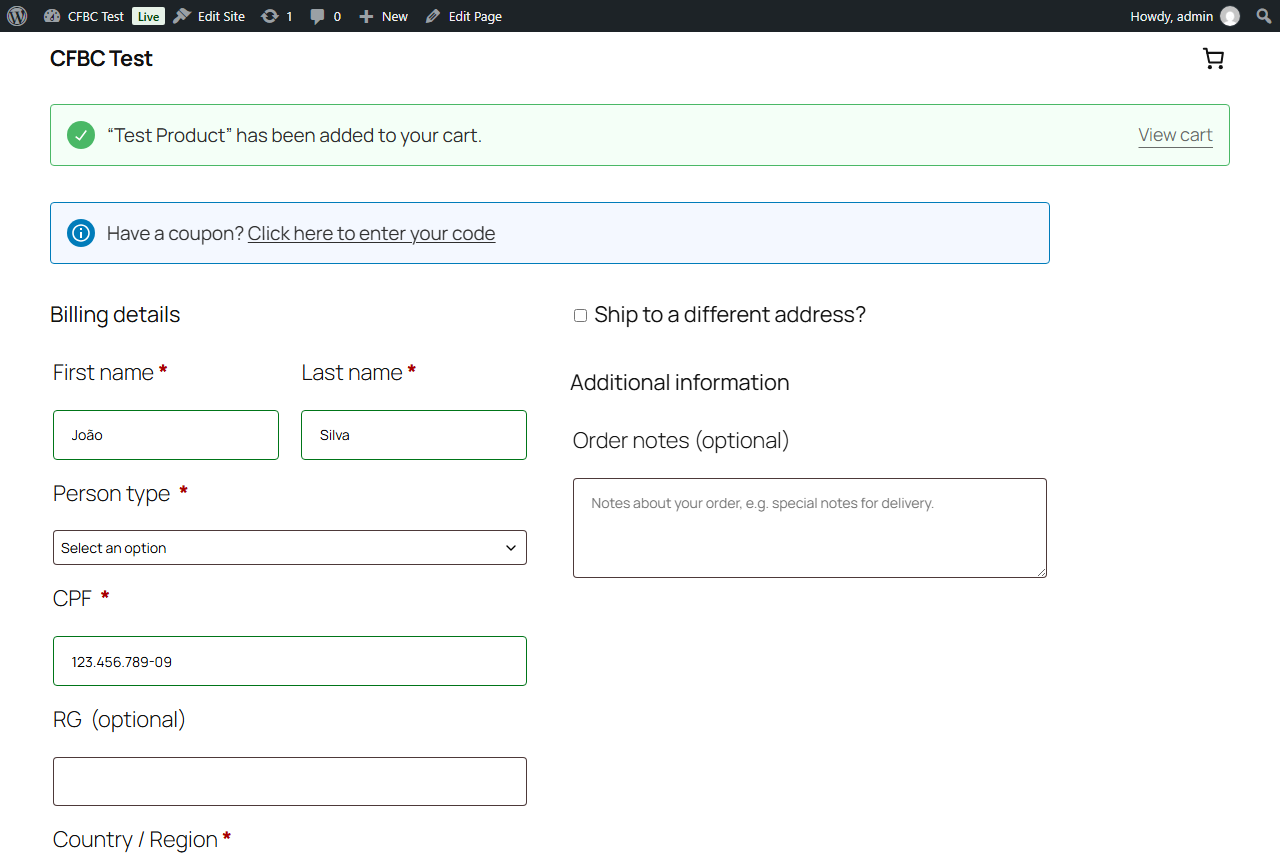
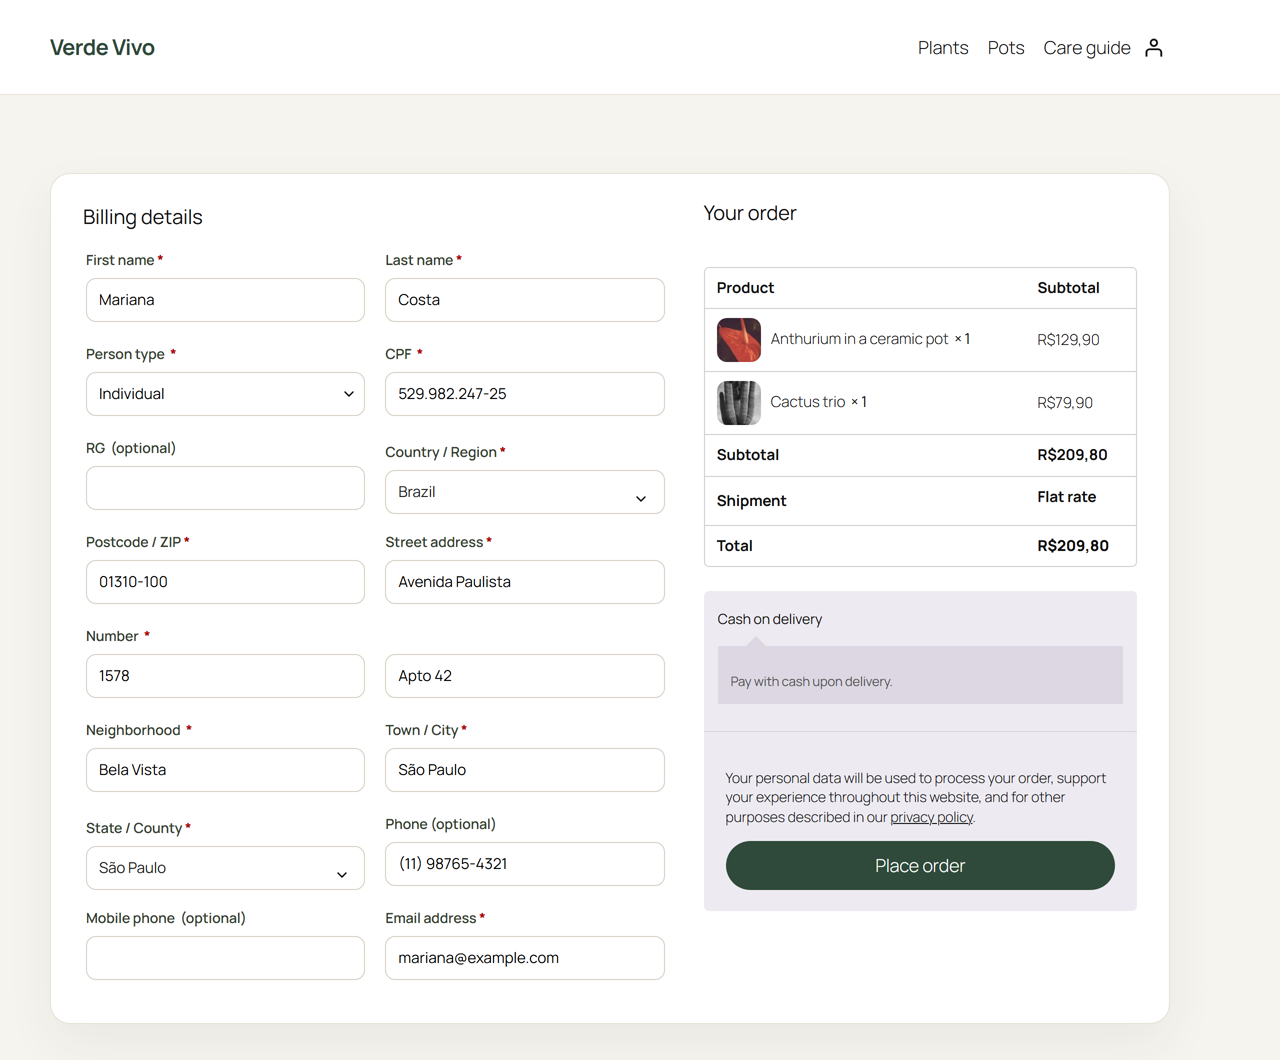
Plugin pages: new screenshots on designed demo sites (Wildmeadow, Verde Vivo), WebP; Confirm & Masks now live on WordPress.org

diff --git a/confirm-masks-cf7/index.html b/confirm-masks-cf7/index.html
@@ -28,14 +28,13 @@
         <h1>"Check your message before sending", for Contact Form 7.</h1>
         <p class="lead">HeroBytes Confirm &amp; Masks adds the three things people keep asking Contact Form 7 for: a confirmation screen with a summary of everything typed, input masks for phones, documents, dates and money, and simple multi-step forms. No jQuery, no tracking.</p>
         <div class="actions">
-          <a class="btn primary" href="https://wordpress.org/plugins/search/herobytes/" rel="noopener">Find it on WordPress.org</a>
+          <a class="btn primary" href="https://wordpress.org/plugins/herobytes-confirm-masks-for-contact-form-7/" rel="noopener">Install from WordPress.org</a>
           <a class="btn secondary" href="#confirm">See how it works</a>
         </div>
-        <p class="note">Submitted to the WordPress.org plugin directory on 27 October 2026 and waiting for review. Until it is listed, write to <a href="mailto:sebas152000@gmail.com">sebas152000@gmail.com</a> and you will get the zip.</p>
       </div>
       <div class="frame">
         <div class="bar"><i></i><i></i><i></i><span class="url">Contact Form 7 &middot; confirmation screen in place of the form</span></div>
-        <img class="zoomable" src="../assets/confirm-masks-cf7/screenshot-1.png" alt="A Contact Form 7 form replaced by a summary of the typed values with Back and Send buttons" width="1280" height="800">
+        <img class="zoomable" src="../assets/confirm-masks-cf7/screenshot-1.webp" alt="A Contact Form 7 form replaced by a summary of the typed values with Back and Send buttons" width="1280" height="800">
       </div>
     </div>
   </div>
@@ -49,7 +48,7 @@
     </ol>
     <p>To turn it on for every form at once, use <b>Contact &gt; Confirm &amp; Masks</b>. If you prefer the form's <i>Additional Settings</i> box, one line does it: <code>confirm_screen: on</code>.</p>
     <figure>
-      <div class="frame"><div class="bar"><i></i><i></i><i></i><span class="url">Pop-up variant</span></div><img class="zoomable" src="../assets/confirm-masks-cf7/screenshot-2.png" alt="The confirmation screen shown as a pop-up over the page" width="1280" height="800" loading="lazy"></div>
+      <div class="frame"><div class="bar"><i></i><i></i><i></i><span class="url">Pop-up variant</span></div><img class="zoomable" src="../assets/confirm-masks-cf7/screenshot-2.webp" alt="The confirmation screen shown as a pop-up over the page" width="1280" height="800" loading="lazy"></div>
       <figcaption>Labels come from your form's <code>&lt;label&gt;</code> elements. Files, checkboxes, radio buttons, selects and acceptance boxes are summarised properly. Fields hidden by conditional-fields plugins are left out.</figcaption>
     </figure>
     <p><b>Coming from "Contact Form 7 add confirm"?</b> Templates built for that old plugin keep working: the <code>[confirm]</code> button opens the confirmation screen and <code>[back]</code> is ignored.</p>
@@ -67,7 +66,7 @@
     <p><b>Presets:</b> <code>phone</code>, <code>digits</code>, <code>money</code>, <code>phone-us</code>, <code>phone-br</code>, <code>phone-co</code>, <code>phone-mx</code>, <code>phone-ar</code>, <code>phone-cl</code>, <code>phone-es</code>, <code>phone-pt</code>, <code>phone-uk</code>, <code>phone-de</code>, <code>phone-fr</code>, <code>phone-it</code>, <code>phone-jp</code>, <code>date</code>, <code>date-us</code>, <code>date-iso</code>, <code>time</code>, <code>year</code>, <code>cpf</code>, <code>cnpj</code>, <code>cpf-cnpj</code>, <code>cep</code>, <code>nit</code>, <code>rut</code>, <code>dni</code>, <code>nie</code>, <code>curp</code>, <code>rfc</code>, <code>zip</code>, <code>zip-us</code>, <code>postcode</code>.</p>
     <p><b>Your own pattern:</b> <code>0</code> digit, <code>9</code> optional digit, <code>A</code> letter, <code>S</code> letter or digit, <code>#</code> any character; anything else is printed literally. Contact Form 7 does not allow spaces or brackets inside tag options, so for those write a bare <code>mask</code> and put the pattern in the placeholder, or define a named mask under <b>Contact &gt; Confirm &amp; Masks</b>. Dates and times are also checked to be real (no 31/02).</p>
     <figure>
-      <div class="frame"><div class="bar"><i></i><i></i><i></i><span class="url">Masks while typing</span></div><img class="zoomable" src="../assets/confirm-masks-cf7/screenshot-3.png" alt="Phone, document, date and money fields formatting themselves while typing" width="1280" height="800" loading="lazy"></div>
+      <div class="frame"><div class="bar"><i></i><i></i><i></i><span class="url">Masks while typing</span></div><img class="zoomable" src="../assets/confirm-masks-cf7/screenshot-3.webp" alt="Phone, date and money fields formatting themselves while typing" width="1280" height="800" loading="lazy"></div>
     </figure>
     <p><b>Coming from "Contact Form 7 - Phone mask field"?</b> Its <code>[mask* name "(___) ___-____" "Placeholder"]</code> tag keeps working.</p>
   </div></section>
@@ -82,7 +81,7 @@
 [submit "Send"]</code></pre>
     <p>A progress list shows the steps. <b>Next</b> validates the current step with Contact Form 7's own rules. If the server rejects a field, the form jumps back to its step. The confirmation screen, if enabled, comes after the last step.</p>
     <figure>
-      <div class="frame"><div class="bar"><i></i><i></i><i></i><span class="url">Multi-step form with progress list</span></div><img class="zoomable" src="../assets/confirm-masks-cf7/screenshot-4.png" alt="A multi-step Contact Form 7 form with its progress list" width="1280" height="800" loading="lazy"></div>
+      <div class="frame"><div class="bar"><i></i><i></i><i></i><span class="url">Multi-step form with progress list</span></div><img class="zoomable" src="../assets/confirm-masks-cf7/screenshot-4.webp" alt="A multi-step Contact Form 7 form with its progress list" width="1280" height="800" loading="lazy"></div>
     </figure>
   </div></section>
 

diff --git a/checkout-fields-brazil-colombia/index.html b/checkout-fields-brazil-colombia/index.html
@@ -35,7 +35,7 @@
       </div>
       <div class="frame">
         <div class="bar"><i></i><i></i><i></i><span class="url">Classic checkout &middot; Brazil</span></div>
-        <img class="zoomable" src="../assets/checkout-fields-brazil-colombia/screenshot-1.png" alt="Brazilian billing form in the classic WooCommerce checkout: person type, CPF, CEP first, number and neighborhood" width="1280" height="860">
+        <img class="zoomable" src="../assets/checkout-fields-brazil-colombia/screenshot-1.webp" alt="Brazilian billing form in the classic WooCommerce checkout: person type, CPF, CEP first, number and neighborhood" width="1280" height="1060">
       </div>
     </div>
   </div>
@@ -53,7 +53,7 @@
       <li>Addresses are printed the Brazilian way: <i>Rua Exemplo, 123 / Bairro / Cidade-UF / CEP</i>.</li>
     </ul>
     <figure>
-      <div class="frame"><div class="bar"><i></i><i></i><i></i><span class="url">Checkout block &middot; legal entity</span></div><img class="zoomable" src="../assets/checkout-fields-brazil-colombia/screenshot-2.png" alt="The same Brazilian fields in the WooCommerce Checkout block, for a legal entity" width="1280" height="860" loading="lazy"></div>
+      <div class="frame"><div class="bar"><i></i><i></i><i></i><span class="url">Checkout block &middot; legal entity</span></div><img class="zoomable" src="../assets/checkout-fields-brazil-colombia/screenshot-2.webp" alt="The same Brazilian fields in the WooCommerce Checkout block, for a legal entity" width="1280" height="1060" loading="lazy"></div>
       <figcaption>The Checkout block (WooCommerce Blocks) is supported through the official additional checkout fields API. Older plugins of this kind only support the classic checkout.</figcaption>
     </figure>
   </div></section>
@@ -66,7 +66,7 @@
       <li><b>Company name</b> is required when the document is a NIT. Postcode optional, as it is rarely used in Colombia.</li>
     </ul>
     <figure>
-      <div class="frame"><div class="bar"><i></i><i></i><i></i><span class="url">Colombia &middot; document type, department and city</span></div><img class="zoomable" src="../assets/checkout-fields-brazil-colombia/screenshot-3.png" alt="Colombian form: document type, department and city list" width="1280" height="860" loading="lazy"></div>
+      <div class="frame"><div class="bar"><i></i><i></i><i></i><span class="url">Colombia &middot; document type, department and city</span></div><img class="zoomable" src="../assets/checkout-fields-brazil-colombia/screenshot-3.webp" alt="Colombian form: document type, department and city list" width="1280" height="1060" loading="lazy"></div>
     </figure>
   </div></section>
 
@@ -75,7 +75,7 @@
     <p>Payment gateways, invoicing (NF-e) and shipping plugins for Brazil read the order meta keys made popular by <i>WooCommerce Extra Checkout Fields for Brazil</i> (Brazilian Market on WooCommerce): <code>_billing_persontype</code>, <code>_billing_cpf</code>, <code>_billing_rg</code>, <code>_billing_cnpj</code>, <code>_billing_ie</code>, <code>_billing_cellphone</code>, <code>_billing_number</code>, <code>_billing_neighborhood</code>, <code>_shipping_number</code>, <code>_shipping_neighborhood</code>. This plugin stores its data under those same keys, on orders and on customer profiles, so you can switch without losing data or breaking integrations. Colombian fields use <code>_billing_document_type</code>, <code>_billing_document</code>, <code>_billing_divipola</code> and <code>_shipping_divipola</code>.</p>
     <p>The fields also appear in My Account, in the admin order screen (editable), on the order received page and in every order e-mail. High-Performance Order Storage (HPOS) compatible.</p>
     <figure>
-      <div class="frame"><div class="bar"><i></i><i></i><i></i><span class="url">Admin order screen</span></div><img class="zoomable" src="../assets/checkout-fields-brazil-colombia/screenshot-4.png" alt="Admin order screen with the fields, editable" width="1280" height="860" loading="lazy"></div>
+      <div class="frame"><div class="bar"><i></i><i></i><i></i><span class="url">Admin order screen</span></div><img class="zoomable" src="../assets/checkout-fields-brazil-colombia/screenshot-4.webp" alt="Admin order screen with the fields, editable" width="1280" height="800" loading="lazy"></div>
     </figure>
   </div></section>
 

diff --git a/hide-title-meta/index.html b/hide-title-meta/index.html
@@ -39,7 +39,7 @@
       </div>
       <div class="frame">
         <div class="bar"><i></i><i></i><i></i><span class="url">Block editor &middot; Hide Title &amp; Meta panel</span></div>
-        <img class="zoomable" src="../assets/hide-title-meta/screenshot-1.png" alt="The Hide Title &amp; Meta panel in the WordPress block editor sidebar, with one checkbox per element" width="1280" height="800">
+        <img class="zoomable" src="../assets/hide-title-meta/screenshot-1.webp" alt="The Hide Title &amp; Meta panel in the WordPress block editor sidebar, with one checkbox per element" width="1280" height="800">
       </div>
     </div>
   </div>
@@ -53,7 +53,7 @@
       <li>Click <b>Update</b> and open the page. The title is gone from the page header; it is still there in menus, in the browser tab and for search engines.</li>
     </ol>
     <figure>
-      <div class="frame"><div class="bar"><i></i><i></i><i></i><span class="url">Twenty Twenty-Five (block theme) &middot; title and featured image hidden</span></div><img class="zoomable" src="../assets/hide-title-meta/screenshot-2.png" alt="A page on a block theme with its title and featured image hidden; the navigation menu still shows the page name" width="1280" height="800" loading="lazy"></div>
+      <div class="frame"><div class="bar"><i></i><i></i><i></i><span class="url">Before and after Twenty Twenty-Five (block theme) &middot; title and featured image hiddenmiddot; Twenty Twenty-Five (block theme)</span></div><img class="zoomable" src="../assets/hide-title-meta/screenshot-2.webp" alt="The same page before and after: the theme title and featured image above the header are gone, the menu still shows the page" width="1280" height="800" loading="lazy"></div>
       <figcaption>The page header no longer shows the title. The menu at the top still says "Landing Page", because menus are never affected.</figcaption>
     </figure>
     <h3>Hide the date, author or comments on a post</h3>
@@ -61,7 +61,7 @@
     <h3>Hide the title on every page by default</h3>
     <p>Go to <b>Settings &gt; Hide Title &amp; Meta</b>, choose which post types get the panel and which elements are hidden by default on each. For example: hide the title on all pages, show it on all posts. Any individual page can still override the default.</p>
     <figure>
-      <div class="frame"><div class="bar"><i></i><i></i><i></i><span class="url">Settings &gt; Hide Title &amp; Meta</span></div><img class="zoomable" src="../assets/hide-title-meta/screenshot-3.png" alt="Settings page: post types, defaults per post type and the CSS fallback" width="1280" height="800" loading="lazy"></div>
+      <div class="frame"><div class="bar"><i></i><i></i><i></i><span class="url">Settings &gt; Hide Title &amp; Meta</span></div><img class="zoomable" src="../assets/hide-title-meta/screenshot-3.webp" alt="Settings page: post types, defaults per post type and the CSS fallback" width="1280" height="800" loading="lazy"></div>
     </figure>
   </div></section>
 

diff --git a/index.html b/index.html
@@ -62,7 +62,7 @@
         <span class="kind">WordPress plugin</span>
         <h3>HeroBytes Confirm &amp; Masks for Contact Form 7</h3>
         <p>A confirmation screen before sending, input masks for phones, documents and amounts, and simple multi-step forms.</p>
-        <span class="status soon">In review at WordPress.org</span>
+        <span class="status live">Published on WordPress.org</span>
       </a>
       <a class="product" href="checkout-fields-brazil-colombia/" style="text-decoration:none">
         <span class="kind">WordPress plugin</span>
